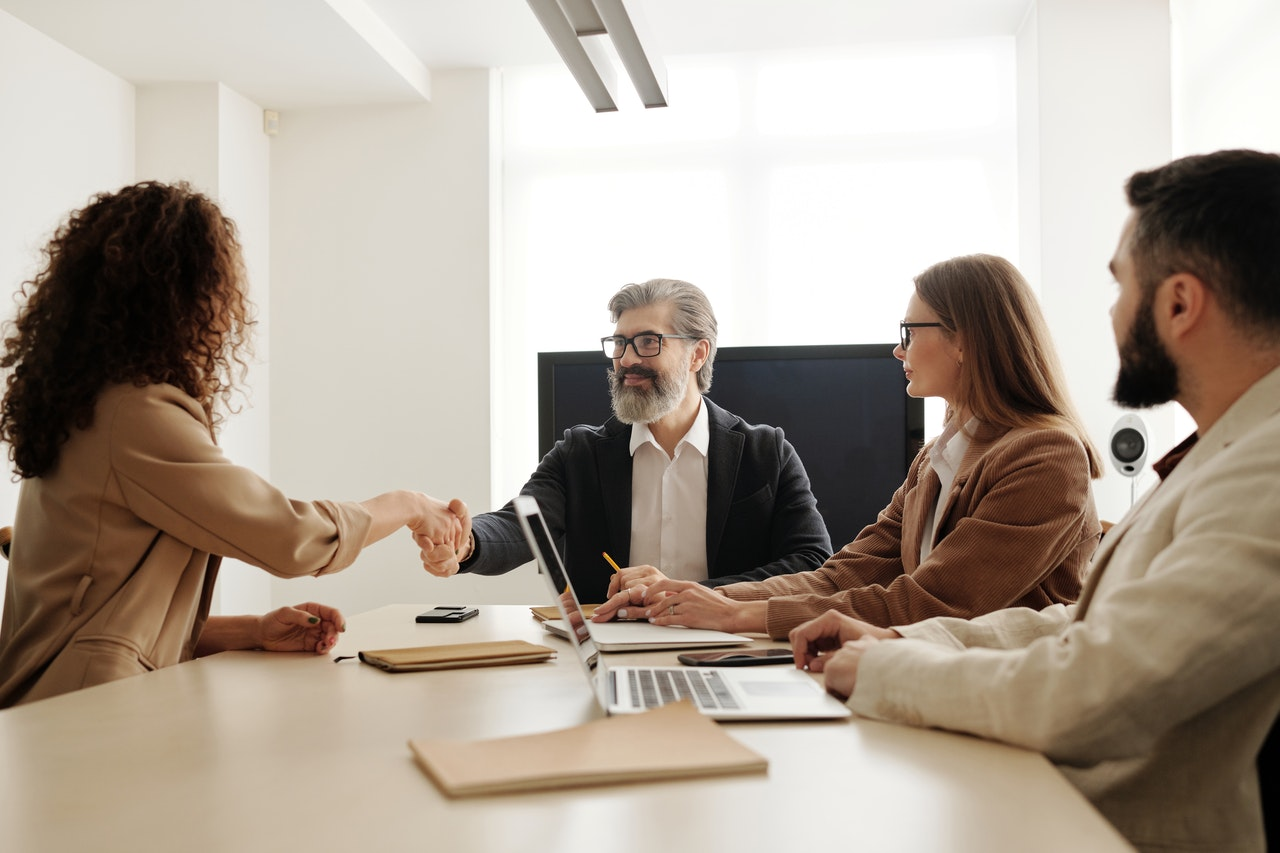
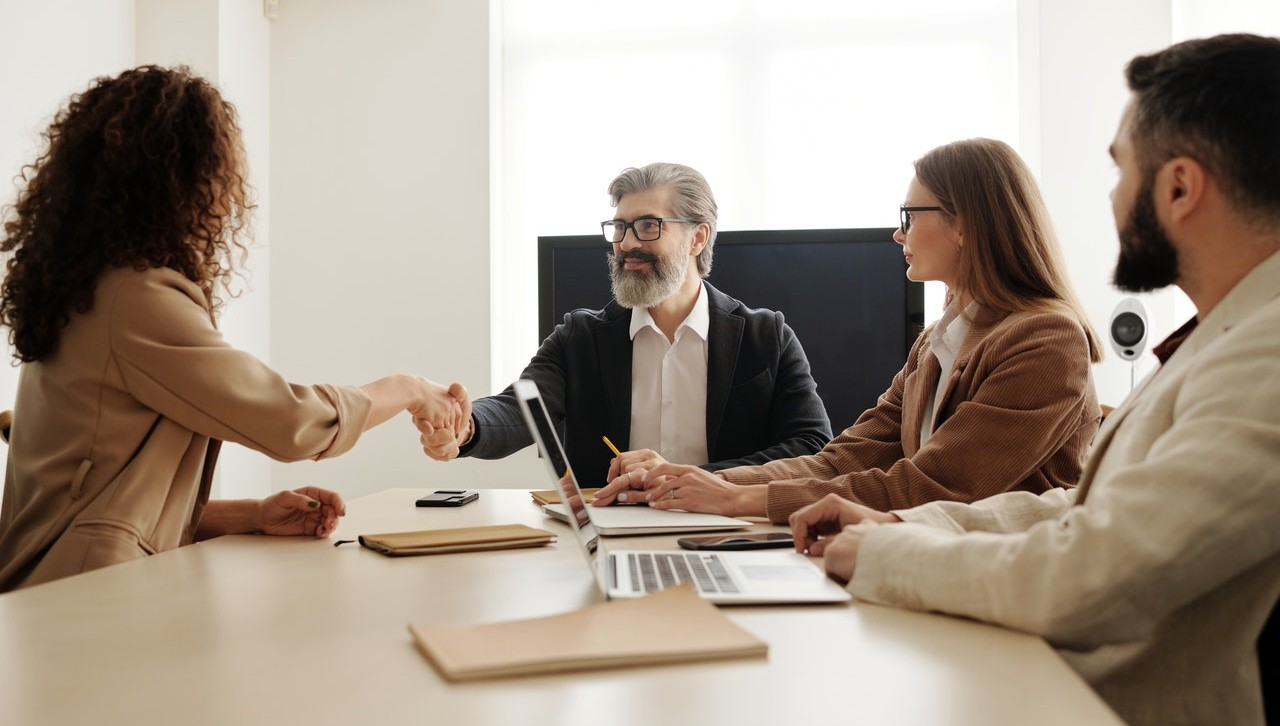
cards responsive and sizes

diff --git a/assets/styles/services.scss b/assets/styles/services.scss
@@ -1,8 +1,14 @@
 @import 'variables.scss';
 
+.service-card {
+    border:none;
+    box-shadow: $shadow-card;
+}
+
 .service-body {
     min-height: 360px;
     height: auto;
+    
 }
 
 .service-head {
@@ -35,5 +41,14 @@
 .img-services {
     height: 400px;
     object-fit: cover;
-    object-position: top;
+    object-position: -30px -30px;
+    
+}
+
+.row {
+    --bs-gutter-x:0;
+}
+
+.container {
+    max-width: 1200px;
 }

diff --git a/assets/styles/variables.scss b/assets/styles/variables.scss
@@ -8,3 +8,4 @@ $dark-primary: #1a2f5b;
 $text-size: 1.25rem;
 $title-family: 'Sulphur Point', sans-serif;
 $text-family: Calibri, "Gill Sans", "Gill Sans MT", "Trebuchet MS", sans-serif;
+$shadow-card:4px 4px 6px rgb(189, 189, 189);
